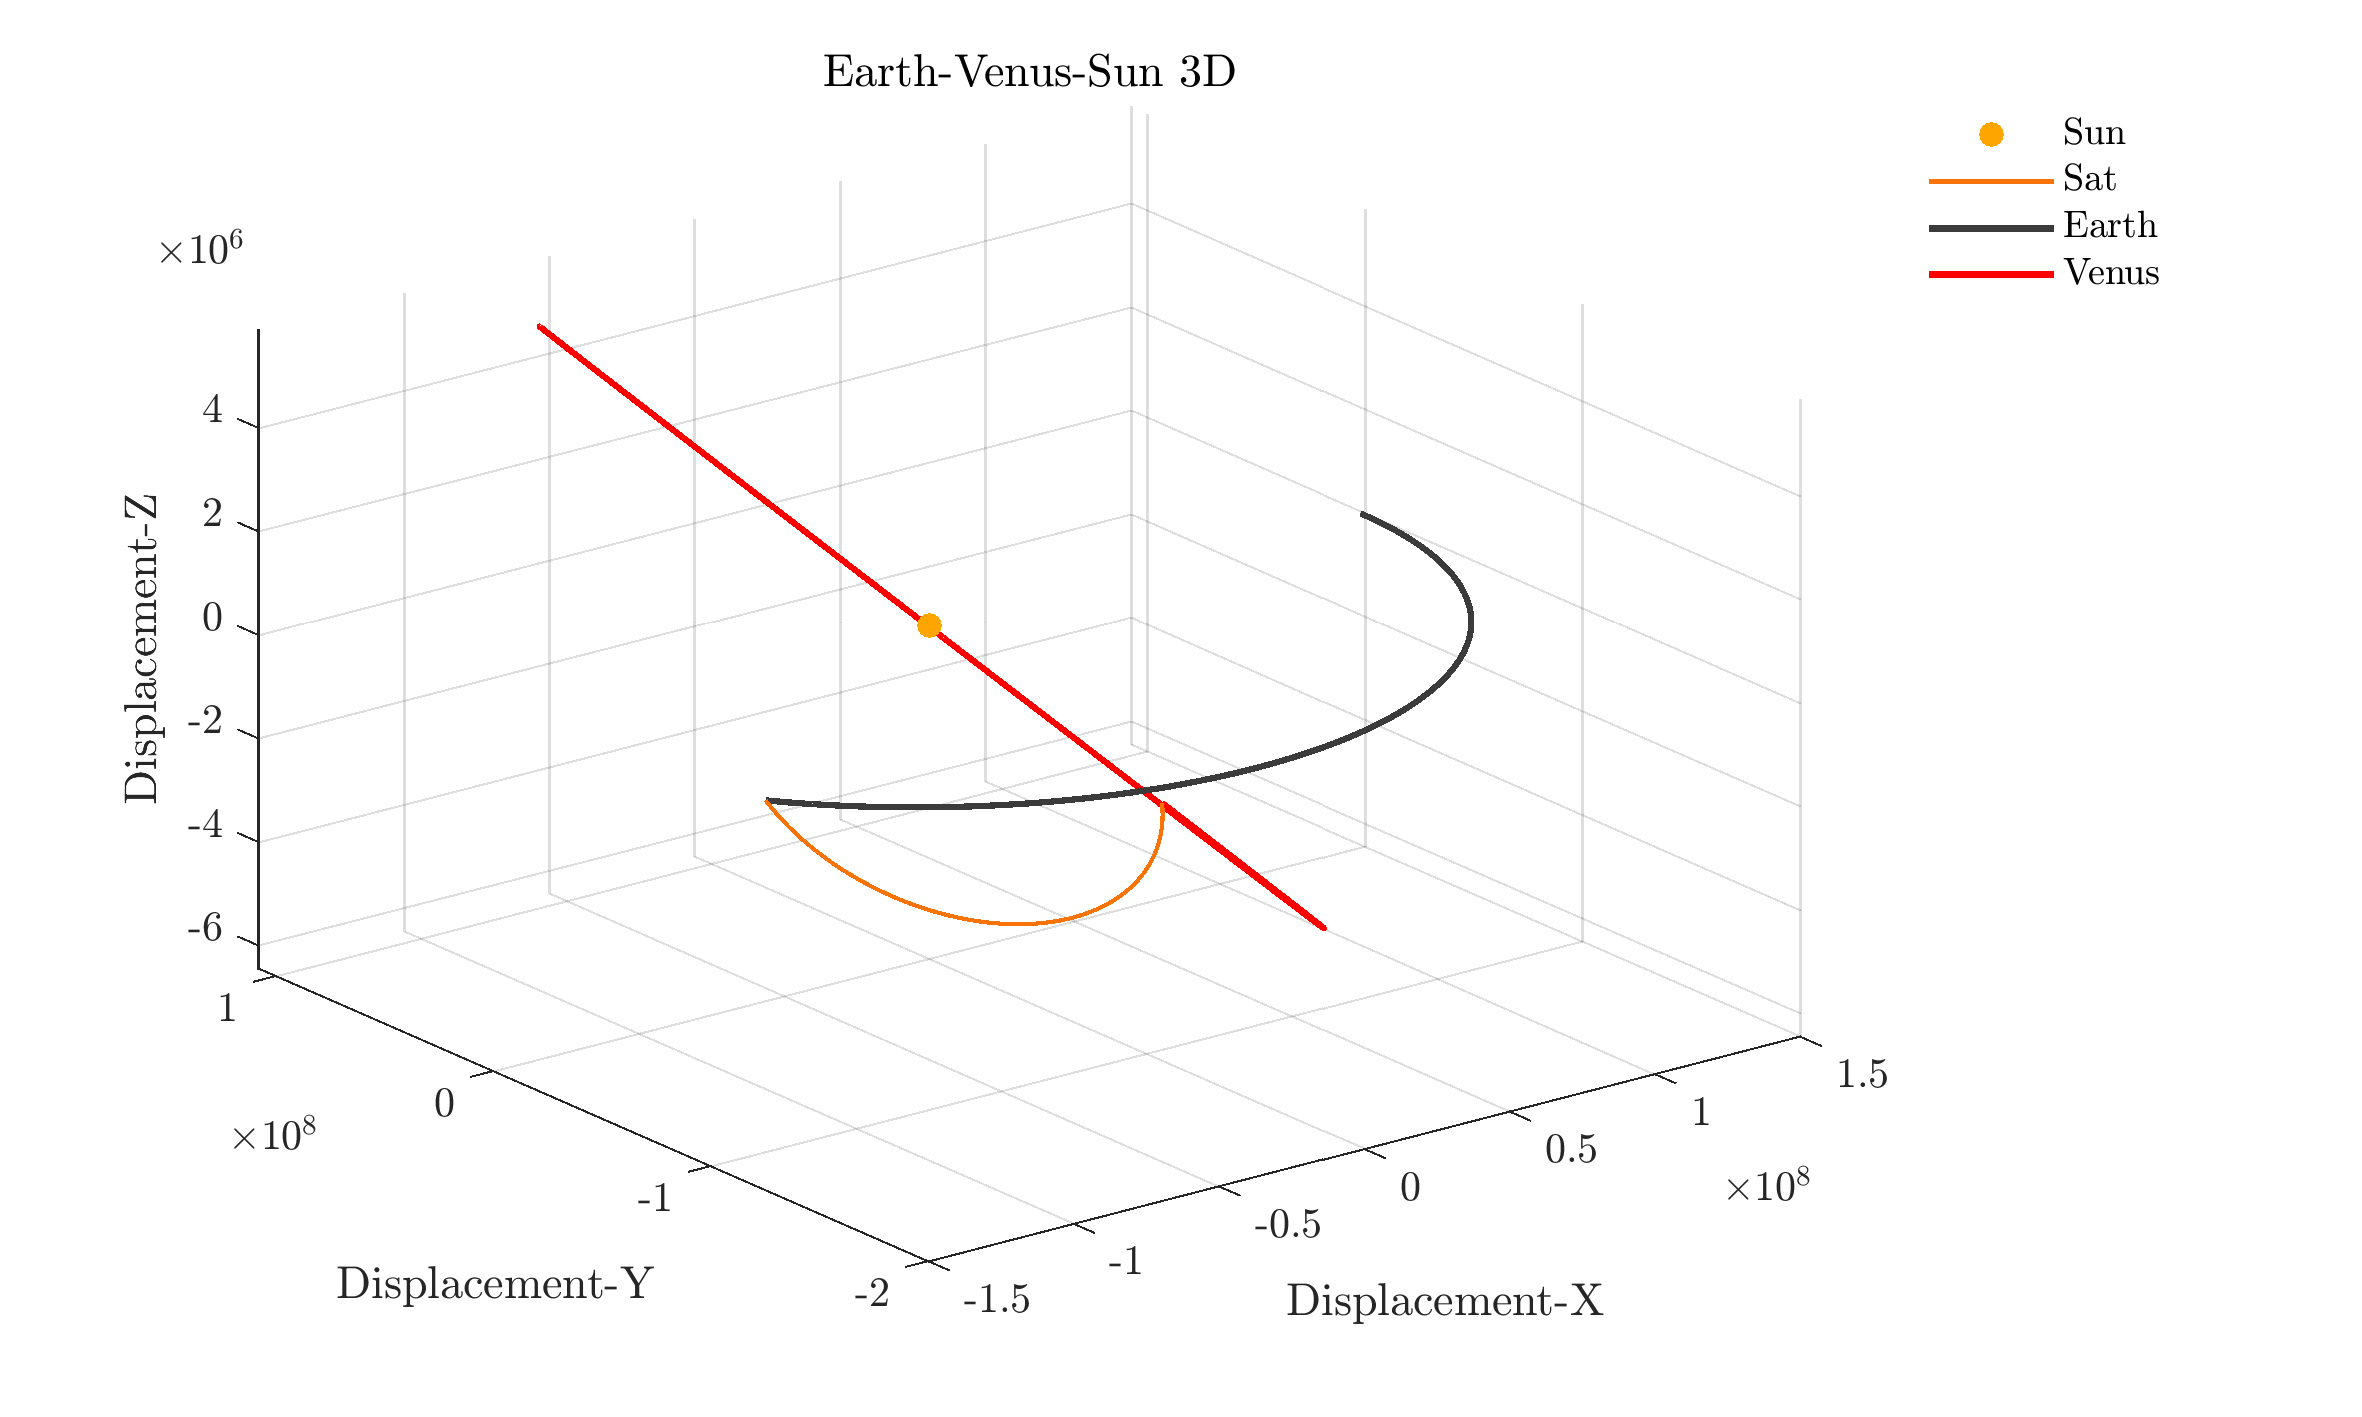
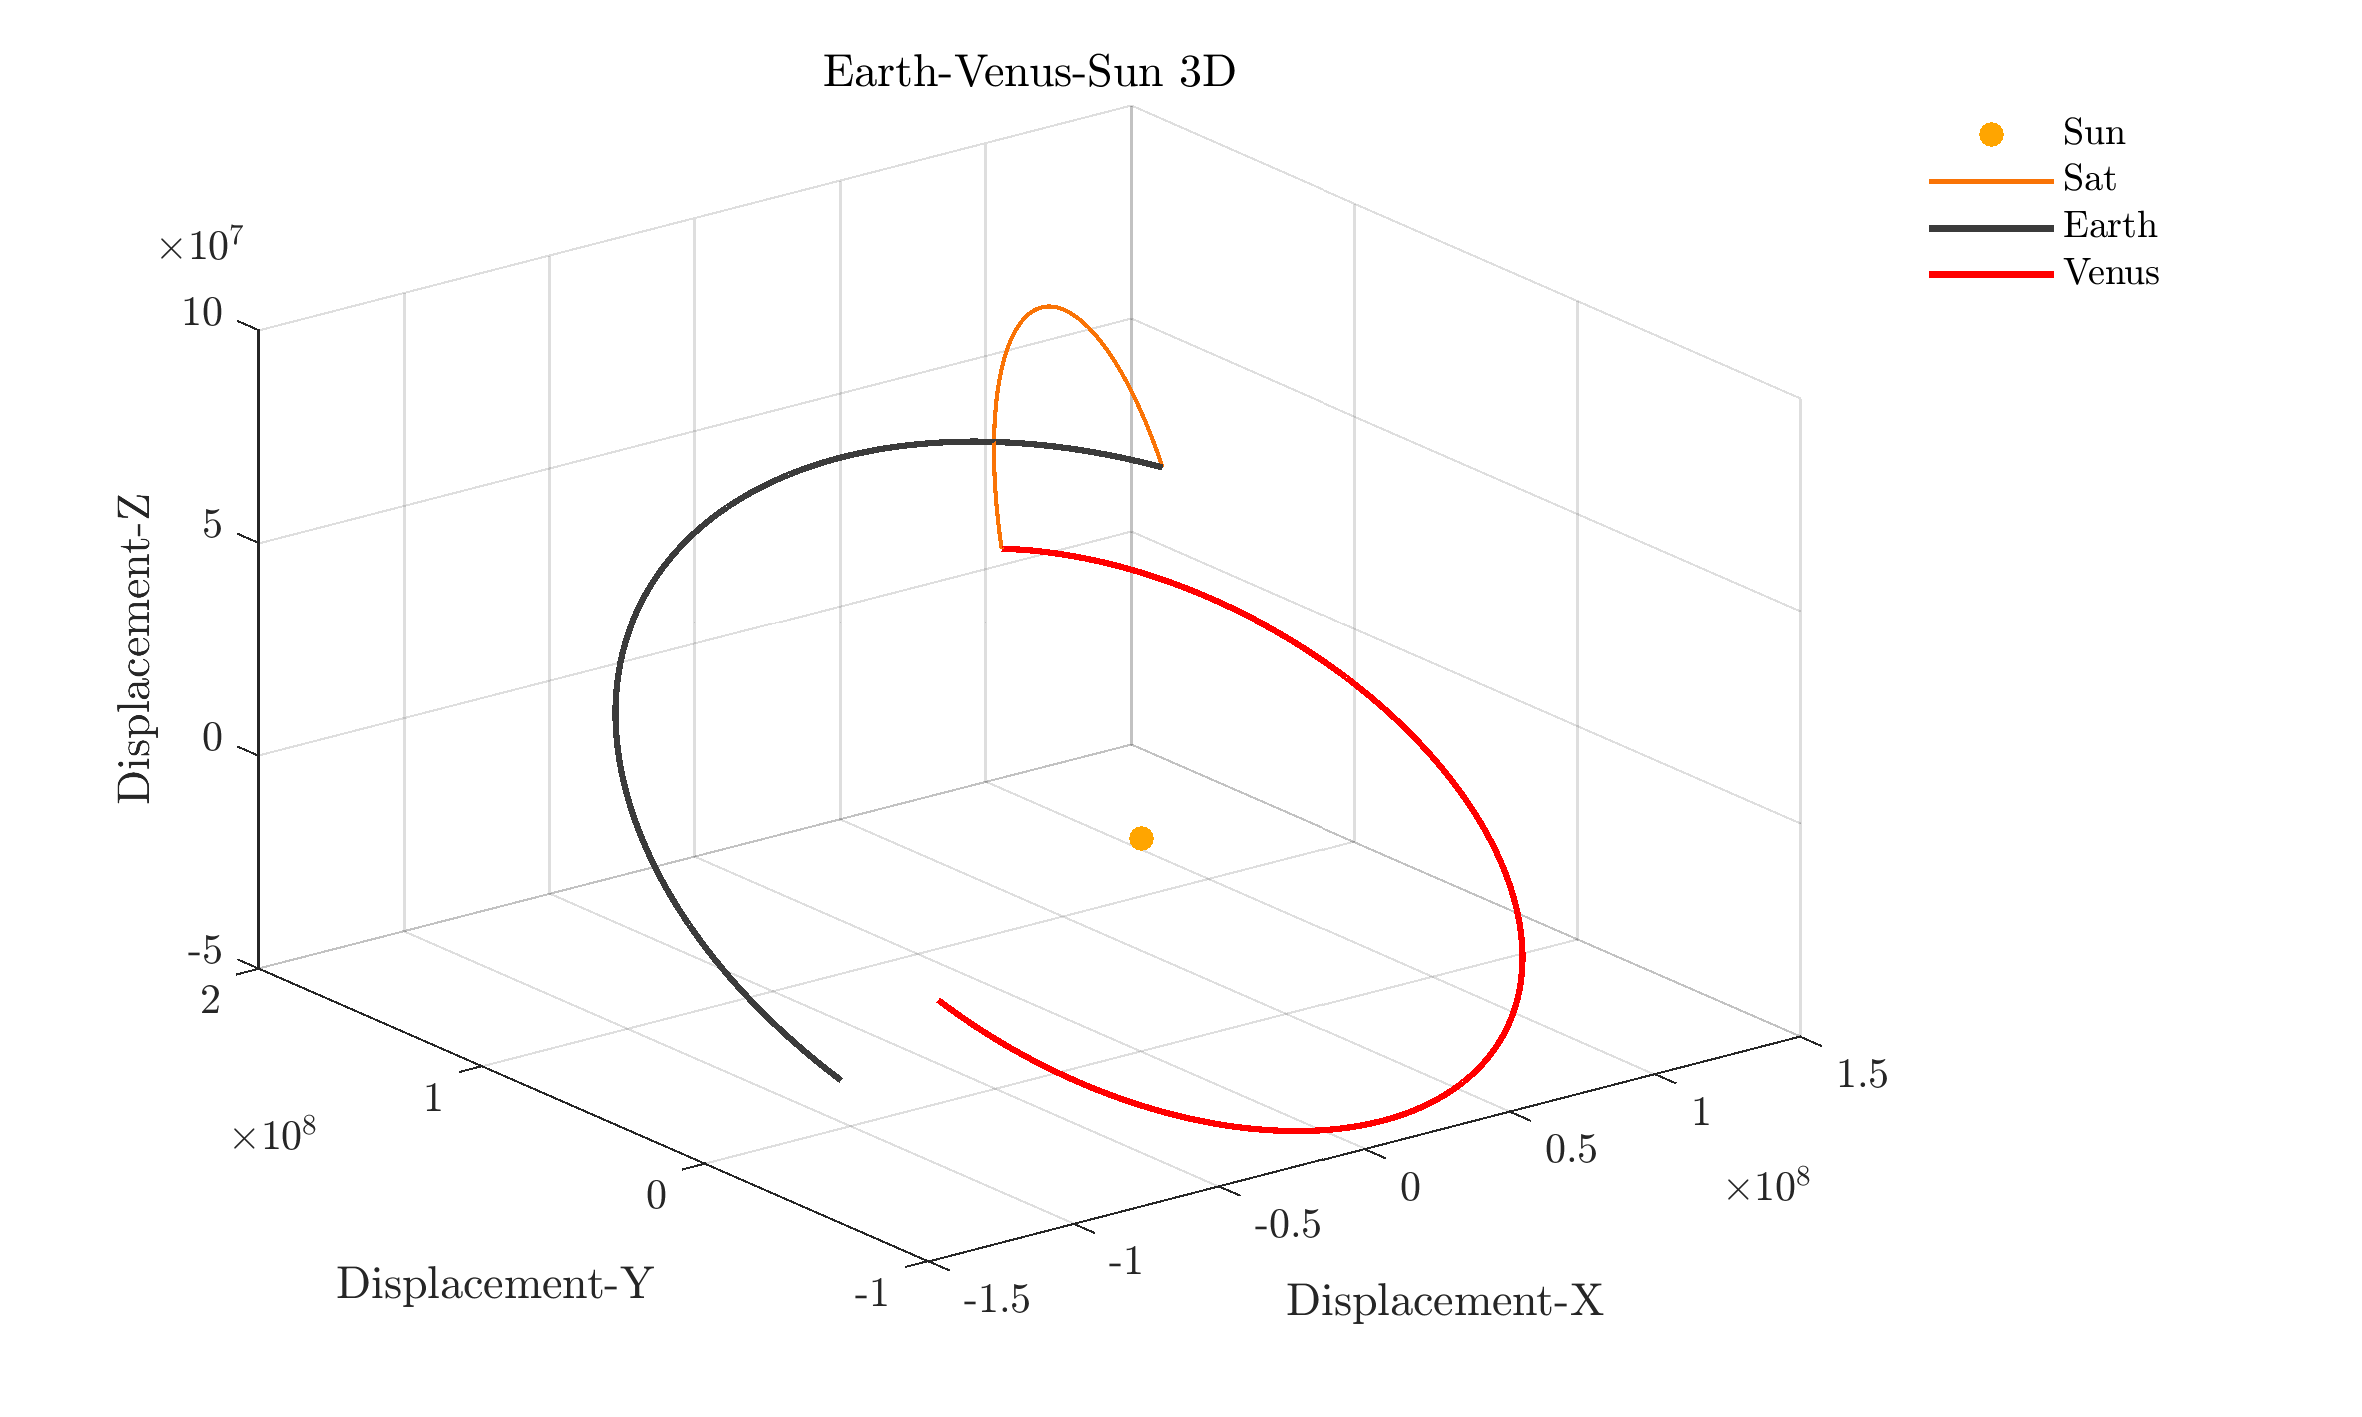
ephemeris data implemented

diff --git a/Final Project Orbit Calculations/AAE251_Transfer_Calculator.m b/Final Project Orbit Calculations/AAE251_Transfer_Calculator.m
@@ -25,7 +25,7 @@ close all;
 plotnum1 = 0;
 plotnum2 = 1;
 plotnum3 = 0;
-plotnum4 = 1;
+plotnum4 = 0;
 
 % conversions
 
@@ -41,7 +41,7 @@ dt = 600;      % time step [s]
 
 transferTime = 147 * days2s; % amount of time for the transfer
 
-t2 = datetime('2025-March-12'); % date at which the simulation starts
+t2 = datetime('15-11-2025', 'InputFormat','dd-MM-yyyy'); % date at which the simulation starts
 
 tInt = t2 + seconds(transferTime);
 
@@ -75,7 +75,9 @@ earthMu = 3.986e5;      % gravitational constant [km^3/s^2]
 earthMass = 5.9722e24;  % mass of Earth [kg]
 
 % calculate the cartesian state for the given inputs:
-[earthPos, earthVel] = orbitalElements(earthA, earthE, earthI, earthRAAN, earthAOP, earthMeanLong, sunMu, sunPos, 0);
+[earthPos, earthVel] = orbitalElements(earthA, earthE, earthI, earthRAAN, earthAOP, earthMeanLong, sunMu, sunPos, 0)
+
+[earthPos, earthVel] = planetEphemeris(juliandate(t2), 'Sun', 'Earth')
 
 % Venus Inits, pulled from J2000 on Jan 11, 2024:
 t1Venus = datetime('2024-January-11');
@@ -95,6 +97,8 @@ venusMu = 3.248e5;  % gravitational constant
 % calculate the cartesian state for the given inputs:
 [venusPos, venusVel] = orbitalElements(venusA, venusE, venusI, venusRAAN, venusAOP, venusMeanLong, sunMu, sunPos, 0);
 
+[venusPos, venusVel] = planetEphemeris(juliandate(t2), 'Sun', 'Venus')
+
 endTime = timespan / dt;
 
 %prealloc arrays for speed:
@@ -107,17 +111,7 @@ satPosArray = zeros(timespan / dt, 3);
 satVelArray = zeros(timespan / dt, 3);
 tArray = zeros(timespan/dt , 1);
 
-for i = 1:endTime
-    t = dt * i;
-    %venus rk4 method:
-    rVenus = sunPos - venusPos;
-    % rk4 integrate:
-    venusVel = rk4(@(t,y)accel(t,venusVel,rVenus, sunMu), dt, t, venusVel);
-    venusPos = rk4(@(t,y)vel(t,venusVel), dt, t, venusPos);
-    venusPosArray(i,:) = venusPos;
-end
-
-venusPosIntercept = venusPosArray(end,:)
+venusPosIntercept = planetEphemeris(juliandate(t2) + transferTime / days2s, 'Sun', 'Venus')
 
 % Satellite Inits:
 % satA = 6600;     % semi major axis

diff --git a/Final Project Orbit Calculations/meanLongSolver.m b/Final Project Orbit Calculations/meanLongSolver.m
@@ -20,6 +20,6 @@ L0rad = deg2rad(L0);
 
 meanLong = L0rad + n * timediff;
 
-meanLong = rad2deg(meanLong);
+meanLong = mod(rad2deg(meanLong), 360);
 
 
